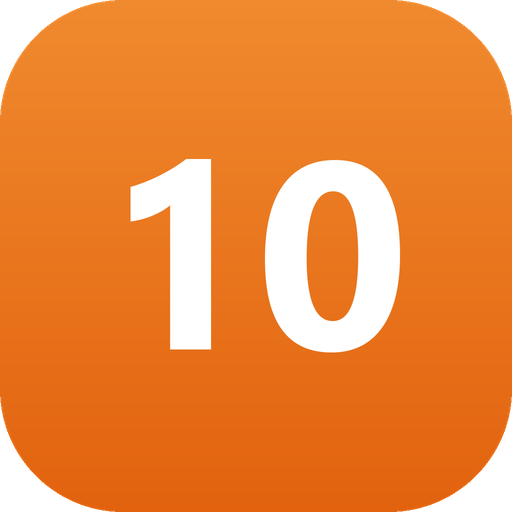
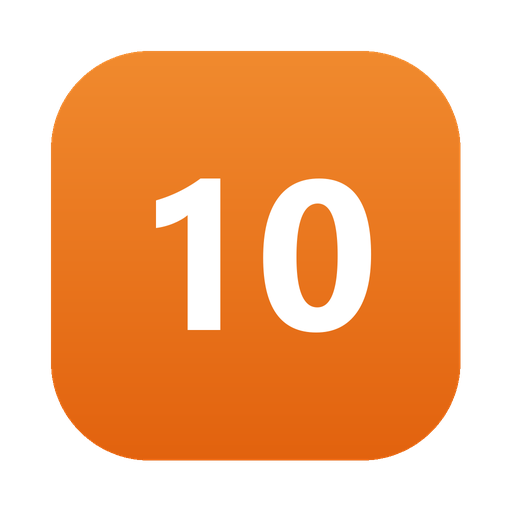
Fix: 无延迟样本节点不参与健康度评比(score=null, 前端显—, 不再中性凑分); 桌面壳应用图标缩小留 10% 透明边(make_icon.py 主图标内容画布 819 居中贴回, 托盘单色版不变)

diff --git a/src/lib/db/repos/usageRepo.js b/src/lib/db/repos/usageRepo.js
@@ -758,13 +758,13 @@ function speedScoreFromTps(tps) {
   return 20;
 }
 
-// success 60% + latency 20% + speed 20%. A missing perf axis contributes a
-// neutral 50 — NOT the success rate. Redistribution-to-success used to let
-// nodes with zero latency/speed samples (gateway-synced rows whose
-// requestDetails never existed locally, rotated-out ring buffer on NAS)
-// reach a perfect 100 on success alone; unproven perf must not read as
-// best-in-class. Neutral 50 still surfaces their real success rate while
-// keeping fully-measured nodes on top.
+// success 60% + latency 20% + speed 20%. A node with ZERO latency samples
+// (gateway-synced rows with no local requestDetails, rotated-out ring buffer
+// on NAS) never reaches this function — toEntry scores it as null and the
+// row does not participate in health ranking at all (user decision: missing
+// data is not a neutral score, it is no score). Only the speed axis can be
+// missing here (latency measured but no token-timed durations); it takes a
+// neutral 50 rather than being rewarded with the success rate.
 function computeScore(successRate, latencyScore, speedScore) {
   const ls = latencyScore == null ? 50 : latencyScore;
   const ss = speedScore == null ? 50 : speedScore;
@@ -1015,10 +1015,12 @@ export async function getUsageDashboard({ minRequests = 50 } = {}) {
       avgLatencyMs,
       avgTtftMs,
       avgSpeed,
-      // Frontend dims the score badge when no latency sample exists — the
-      // number then only reflects success rate + neutral perf placeholders.
+      // No latency sample → no health score: the row shows its traffic but
+      // stays out of the ranking entirely (frontend renders "—").
       hasPerfData: avgLatencyMs != null,
-      score: computeScore(successRate, latencyScoreFromMs(avgLatencyMs), speedScoreFromTps(avgSpeed)),
+      score: avgLatencyMs == null
+        ? null
+        : computeScore(successRate, latencyScoreFromMs(avgLatencyMs), speedScoreFromTps(avgSpeed)),
       promptTokens: row.promptTokens || 0,
       completionTokens: row.completionTokens || 0,
       cost: row.cost || 0,

diff --git a/tests/unit/usage-dashboard-import-exclusion.test.js b/tests/unit/usage-dashboard-import-exclusion.test.js
@@ -225,11 +225,13 @@ describe("getUsageDashboard imported-row handling", () => {
     expect(node.avgSpeed).toBe(100);
   });
 
-  it("nodes with zero latency samples never score a perfect 100 (neutral perf axes)", async () => {
+  it("nodes with zero latency samples are excluded from health scoring entirely", async () => {
     // Regression: NAS-style nodes whose traffic exists only in usageHistory
     // (gateway-synced rows / rotated-out requestDetails ring) used to
     // redistribute the missing perf weight to successRate — 100% success
     // with NO measured latency/speed displayed as a full 100 health score.
+    // Decision: missing perf data is not a neutral score, it is NO score —
+    // the row keeps its traffic stats but does not participate in ranking.
     for (let i = 0; i < 6; i++) {
       await usageRepo.saveRequestUsage({
         ...LIVE_ROW,
@@ -245,8 +247,7 @@ describe("getUsageDashboard imported-row handling", () => {
     expect(node.successRate).toBe(100);
     expect(node.hasPerfData).toBe(false);
     expect(node.avgLatencyMs).toBeNull();
-    // 100*0.6 (success) + 50*0.2 (neutral latency) + 50*0.2 (neutral speed) = 80
-    expect(node.score).toBe(80);
+    expect(node.score).toBeNull();
   });
 
   it("defaults minRequests to 50 in getUsageDashboard", async () => {

diff --git a/src/app/(dashboard)/dashboard/usage/components/UsageDashboard.js b/src/app/(dashboard)/dashboard/usage/components/UsageDashboard.js
@@ -74,17 +74,10 @@ function CellContent({ col, row, nameKey, subKey, expandable, isOpen }) {
         </div>
       );
     case "badge":
-      // A score computed without a single latency sample (hasPerfData false)
-      // only reflects success rate + neutral placeholders — dim it and
-      // explain on hover instead of letting it pose as fully measured.
-      return (
-        <span
-          className={cn(row.hasPerfData === false && "opacity-60")}
-          title={row.hasPerfData === false ? translate("No latency samples — score reflects success rate only") : undefined}
-        >
-          <Badge variant={scoreVariant(row.score)} size="sm">{row.score}</Badge>
-        </span>
-      );
+      // score null = no latency sample ever measured → the row does not
+      // participate in health ranking; render a plain dash, not a badge.
+      if (row.score == null) return <span className="text-text-muted">—</span>;
+      return <Badge variant={scoreVariant(row.score)} size="sm">{row.score}</Badge>;
     case "rate":
       return (
         <span className={cn(

diff --git a/desktop/make_icon.py b/desktop/make_icon.py
@@ -12,7 +12,12 @@ HERE = Path(__file__).parent
 MASTER = 1024
 ORANGE_TOP = (240, 138, 46)    # #F08A2E
 ORANGE_BOTTOM = (226, 98, 14)  # #E2620E
-RADIUS = int(MASTER * 0.24)    # 与托盘小图标一致的圆角比例
+RADIUS = int(MASTER * 0.24)    # 与托盘小图标一致的圆角比例(单色托盘版仍画满幅)
+# 应用图标(彩色版)四周留 10% 透明边:100% 出血在任务栏/桌面快捷方式上
+# 视觉上顶满格,和系统自带图标并排时显得胀。内容画在 CONTENT 画布再居中贴回。
+PAD_RATIO = 0.10
+CONTENT = int(MASTER * (1 - 2 * PAD_RATIO))
+CONTENT_RADIUS = int(CONTENT * 0.24)
 
 
 def _font(size: int) -> ImageFont.FreeTypeFont:
@@ -26,25 +31,29 @@ def _font(size: int) -> ImageFont.FreeTypeFont:
 
 def build_master() -> Image.Image:
     img = Image.new("RGBA", (MASTER, MASTER), (0, 0, 0, 0))
-    draw = ImageDraw.Draw(img)
+    content = Image.new("RGBA", (CONTENT, CONTENT), (0, 0, 0, 0))
+    draw = ImageDraw.Draw(content)
     # 垂直渐变:逐行画圆角矩形裁出的横线
-    overlay = Image.new("RGBA", (MASTER, MASTER), (0, 0, 0, 0))
+    overlay = Image.new("RGBA", (CONTENT, CONTENT), (0, 0, 0, 0))
     odraw = ImageDraw.Draw(overlay)
-    for y in range(MASTER):
-        t = y / (MASTER - 1)
+    for y in range(CONTENT):
+        t = y / (CONTENT - 1)
         color = tuple(round(a + (b - a) * t) for a, b in zip(ORANGE_TOP, ORANGE_BOTTOM)) + (255,)
-        odraw.line([(0, y), (MASTER, y)], fill=color)
-    mask = Image.new("L", (MASTER, MASTER), 0)
-    ImageDraw.Draw(mask).rounded_rectangle([0, 0, MASTER - 1, MASTER - 1], radius=RADIUS, fill=255)
-    img.paste(overlay, (0, 0), mask)
+        odraw.line([(0, y), (CONTENT, y)], fill=color)
+    mask = Image.new("L", (CONTENT, CONTENT), 0)
+    ImageDraw.Draw(mask).rounded_rectangle([0, 0, CONTENT - 1, CONTENT - 1], radius=CONTENT_RADIUS, fill=255)
+    content.paste(overlay, (0, 0), mask)
 
     text = "10"
-    font = _font(int(MASTER * 0.52))
+    font = _font(int(CONTENT * 0.52))
     left, top, right, bottom = draw.textbbox((0, 0), text, font=font)
     tw, th = right - left, bottom - top
-    x = (MASTER - tw) / 2 - left
-    y = (MASTER - th) / 2 - top
+    x = (CONTENT - tw) / 2 - left
+    y = (CONTENT - th) / 2 - top
     draw.text((x, y), text, font=font, fill=(255, 255, 255, 255))
+
+    margin = (MASTER - CONTENT) // 2
+    img.paste(content, (margin, margin))
     return img
 
 
